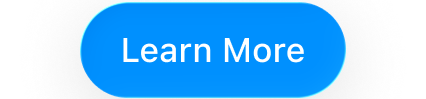
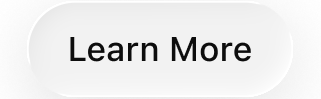
patch: update for release

diff --git a/README.md b/README.md
@@ -1,20 +1,18 @@
 <h1 align="center">Swiftcord</h1>
 <p align="center">
   The 100% native SwiftUI macOS Discord client, now with Liquid Glass.
-  <br>
-  Join the waitlist at <a href="https://swiftcord.app/?utm_source=gh">swiftcord.app</a> to be the first in line for early access!
-  <br>
-</p>
-
-<p align="center">
+  <br><br>
+  <a href="https://swiftcord.app/download?utm_source=gh">
+    <img src="docs-res/cta-dl.png" alt="Download Swiftcord" height="48">
+  </a>
   <a href="https://swiftcord.app/?utm_source=gh">
-    <img src="docs-res/hero.png" alt="Swiftcord running on a MacBook and iPad" width="100%">
+    <img src="docs-res/cta.png" alt="Learn more about Swiftcord" height="48">
   </a>
 </p>
 
 <p align="center">
   <a href="https://swiftcord.app/?utm_source=gh">
-    <img src="docs-res/cta.png" alt="Join the Swiftcord waitlist" width="213">
+    <img src="docs-res/hero.png" alt="Swiftcord running on a MacBook and iPad" width="100%">
   </a>
 </p>
 
@@ -27,8 +25,8 @@ embeds look exactly like you expect.
 Rebuilt from the ground up with performance at its core, Swiftcord launches in an instant,
 moves effortlessly between conversations, and stays remarkably light on your system.
 
-## Join the Waitlist.
-Swiftcord v2 is currently in prerelease and will be released in phases. Join the waitlist to secure your place - we'll send you an email with a code to install Swiftcord once a spot's available!
+## [Download Now!](https://swiftcord.app/download)
+Currently available for macOS 26+, Apple Silicon. iOS coming soon.
 
 Follow along on X and Discord for updates. Plus, chat directly with developers and other awesome community members! 
 
@@ -40,9 +38,5 @@ Follow along on X and Discord for updates. Plus, chat directly with developers a
     <img alt="" src="https://img.shields.io/twitter/follow/swiftcordapp?style=for-the-badge&labelColor=black&logo=x">
   </a>
 </p>
-
-## Open Source
-Swiftcord is under heavy development and is not currently accepting external contributions.
-Source code will be made available following public release.
 
 > Note: Looking for the legacy codebase? It's archived at the `main` branch.
